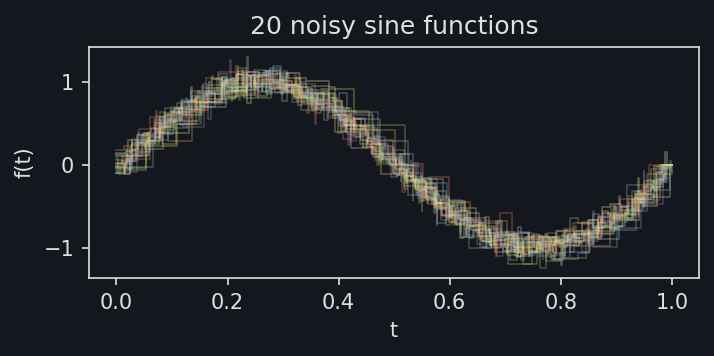
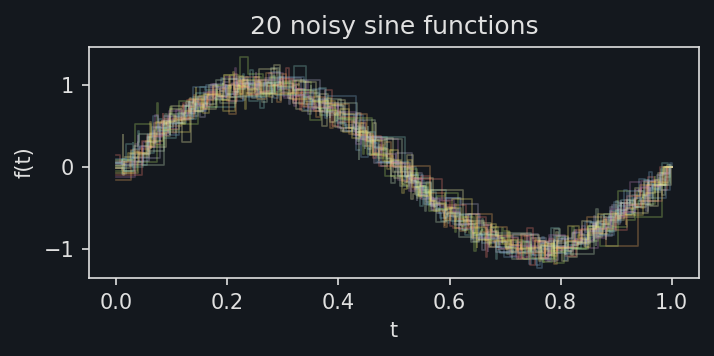
Seed the random docs figures

diff --git a/docs/_static/gen_plotting_gallery.py b/docs/_static/gen_plotting_gallery.py
@@ -27,7 +27,7 @@ def plot_single_pcf():
 
 # -- docs snippet start overlaid --
 def plot_overlaid():
-    X = noisy_sin((20,), n_points=80)
+    X = noisy_sin((20,), n_points=80, generator=sb.random.Generator(seed=5))
 
     fig, ax = plt.subplots(figsize=(5, 2.5))
     plotpcf(X, ax=ax, alpha=0.3, linewidth=0.8)
@@ -61,8 +61,9 @@ def plot_arithmetic():
 
 # -- docs snippet start mean_highlight --
 def plot_mean_highlight(sin_color="b", cos_color="r"):
-    sines = noisy_sin((15,), n_points=100)
-    cosines = noisy_cos((15,), n_points=100)
+    gen = sb.random.Generator(seed=5)
+    sines = noisy_sin((15,), n_points=100, generator=gen)
+    cosines = noisy_cos((15,), n_points=100, generator=gen)
 
     fig, ax = plt.subplots(figsize=(5, 2.5))
     plotpcf(sines, ax=ax, color=sin_color, linewidth=0.5, alpha=0.2)

diff --git a/docs/_static/gen_combining_fig.py b/docs/_static/gen_combining_fig.py
@@ -17,8 +17,9 @@ def plot_combining_example(sin_color="b", cos_color="r"):
     M = 10
     A = sb.zeros((2, M))
 
-    A[0, :] = noisy_sin((M,), n_points=100)
-    A[1, :] = noisy_cos((M,), n_points=15)
+    gen = sb.random.Generator(seed=5)
+    A[0, :] = noisy_sin((M,), n_points=100, generator=gen)
+    A[1, :] = noisy_cos((M,), n_points=15, generator=gen)
 
     fig, ax = plt.subplots(figsize=(6, 2))
 
